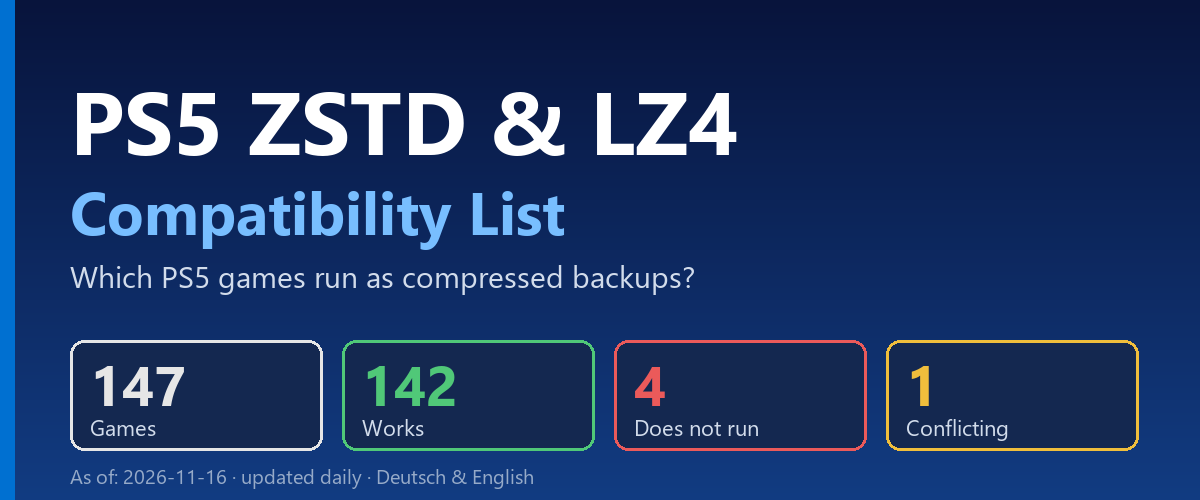
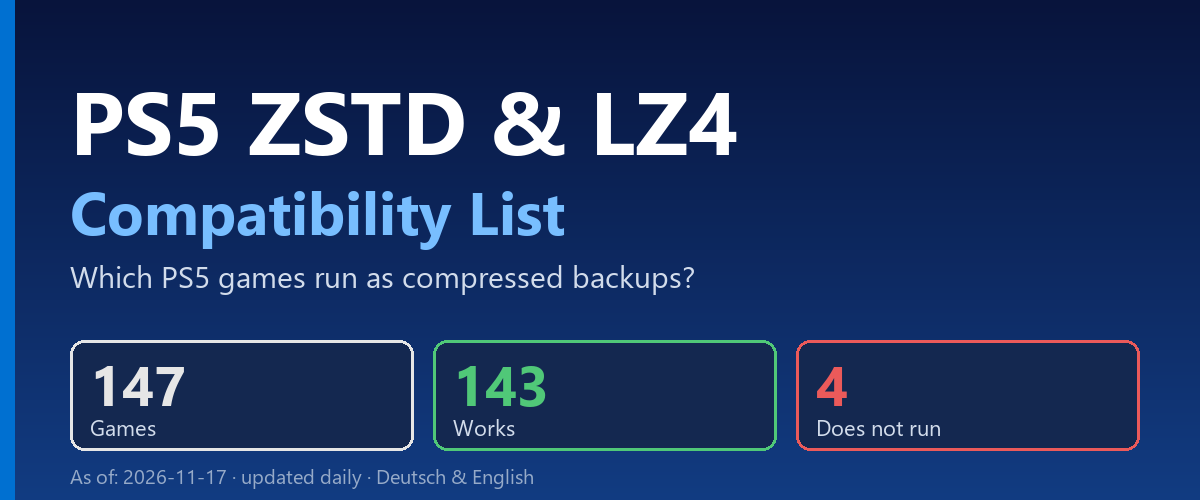
Marvel's Wolverine: läuft mit ampr-emu-ng 0.4.1 laut muxi, Widerspruch entfernt

Changed region(s): [[0.4933, 0.66, 0.9558, 0.9], [0.2467, 0.66, 0.4625, 0.9]]

diff --git a/README.md b/README.md
@@ -15,15 +15,15 @@ Die Liste wird täglich automatisch aktualisiert.
 Was neu ist, steht im [CHANGELOG](CHANGELOG.md). In der PDF sind neue und geänderte Spiele mit
 `[NEU]` bzw. `[GEÄNDERT]` markiert und blau hinterlegt.
 
-## Stand: 2026-11-16
+## Stand: 2026-11-17
 
 147 Spiele
 
 | Status | Anzahl |
 |---|---|
-| Läuft | 142 |
+| Läuft | 143 |
 | Läuft nicht | 4 |
-| Widersprüchlich | 1 |
+| Widersprüchlich | 0 |
 | Unbestätigt | 0 |
 
 - **Läuft**: alle Testberichte erfolgreich

diff --git a/README.en.md b/README.en.md
@@ -15,15 +15,15 @@ The list is updated automatically every day.
 See the [CHANGELOG](CHANGELOG.en.md) for what is new. In the PDF, new and changed games are marked
 `[NEW]` / `[CHANGED]` and highlighted in blue.
 
-## Status: 2026-11-16
+## Status: 2026-11-17
 
 147 games
 
 | Status | Count |
 |---|---|
-| Works | 142 |
+| Works | 143 |
 | Does not run | 4 |
-| Conflicting | 1 |
+| Conflicting | 0 |
 | Unconfirmed | 0 |
 
 - **Works**: all test reports successful

diff --git a/CHANGELOG.md b/CHANGELOG.md
@@ -2,6 +2,14 @@
 
 Neue und geänderte Einträge pro Aktualisierung (neueste zuerst).
 
+## 2026-11-17
+
+**Geändert**
+
+| Spiel | Änderung |
+|---|---|
+| Marvel's Wolverine | Status: Widersprüchlich → Läuft; Testberichte: 4 → 5 (neu von muxi): Version v01.001.005 (muxi); Backport 4.xx (muxi); läuft mit ampr-emu-ng 0.4.1 (muxi) |
+
 ## 2026-11-16
 
 **Neu**

diff --git a/CHANGELOG.en.md b/CHANGELOG.en.md
@@ -2,6 +2,14 @@
 
 New and changed entries per update (newest first).
 
+## 2026-11-17
+
+**Changed**
+
+| Game | Change |
+|---|---|
+| Marvel's Wolverine | Status: Conflicting → Works; Test reports: 4 → 5 (new from muxi): Version v01.001.005 (muxi); Backport 4.xx (muxi); works with ampr-emu-ng 0.4.1 (muxi) |
+
 ## 2026-11-16
 
 **New**
